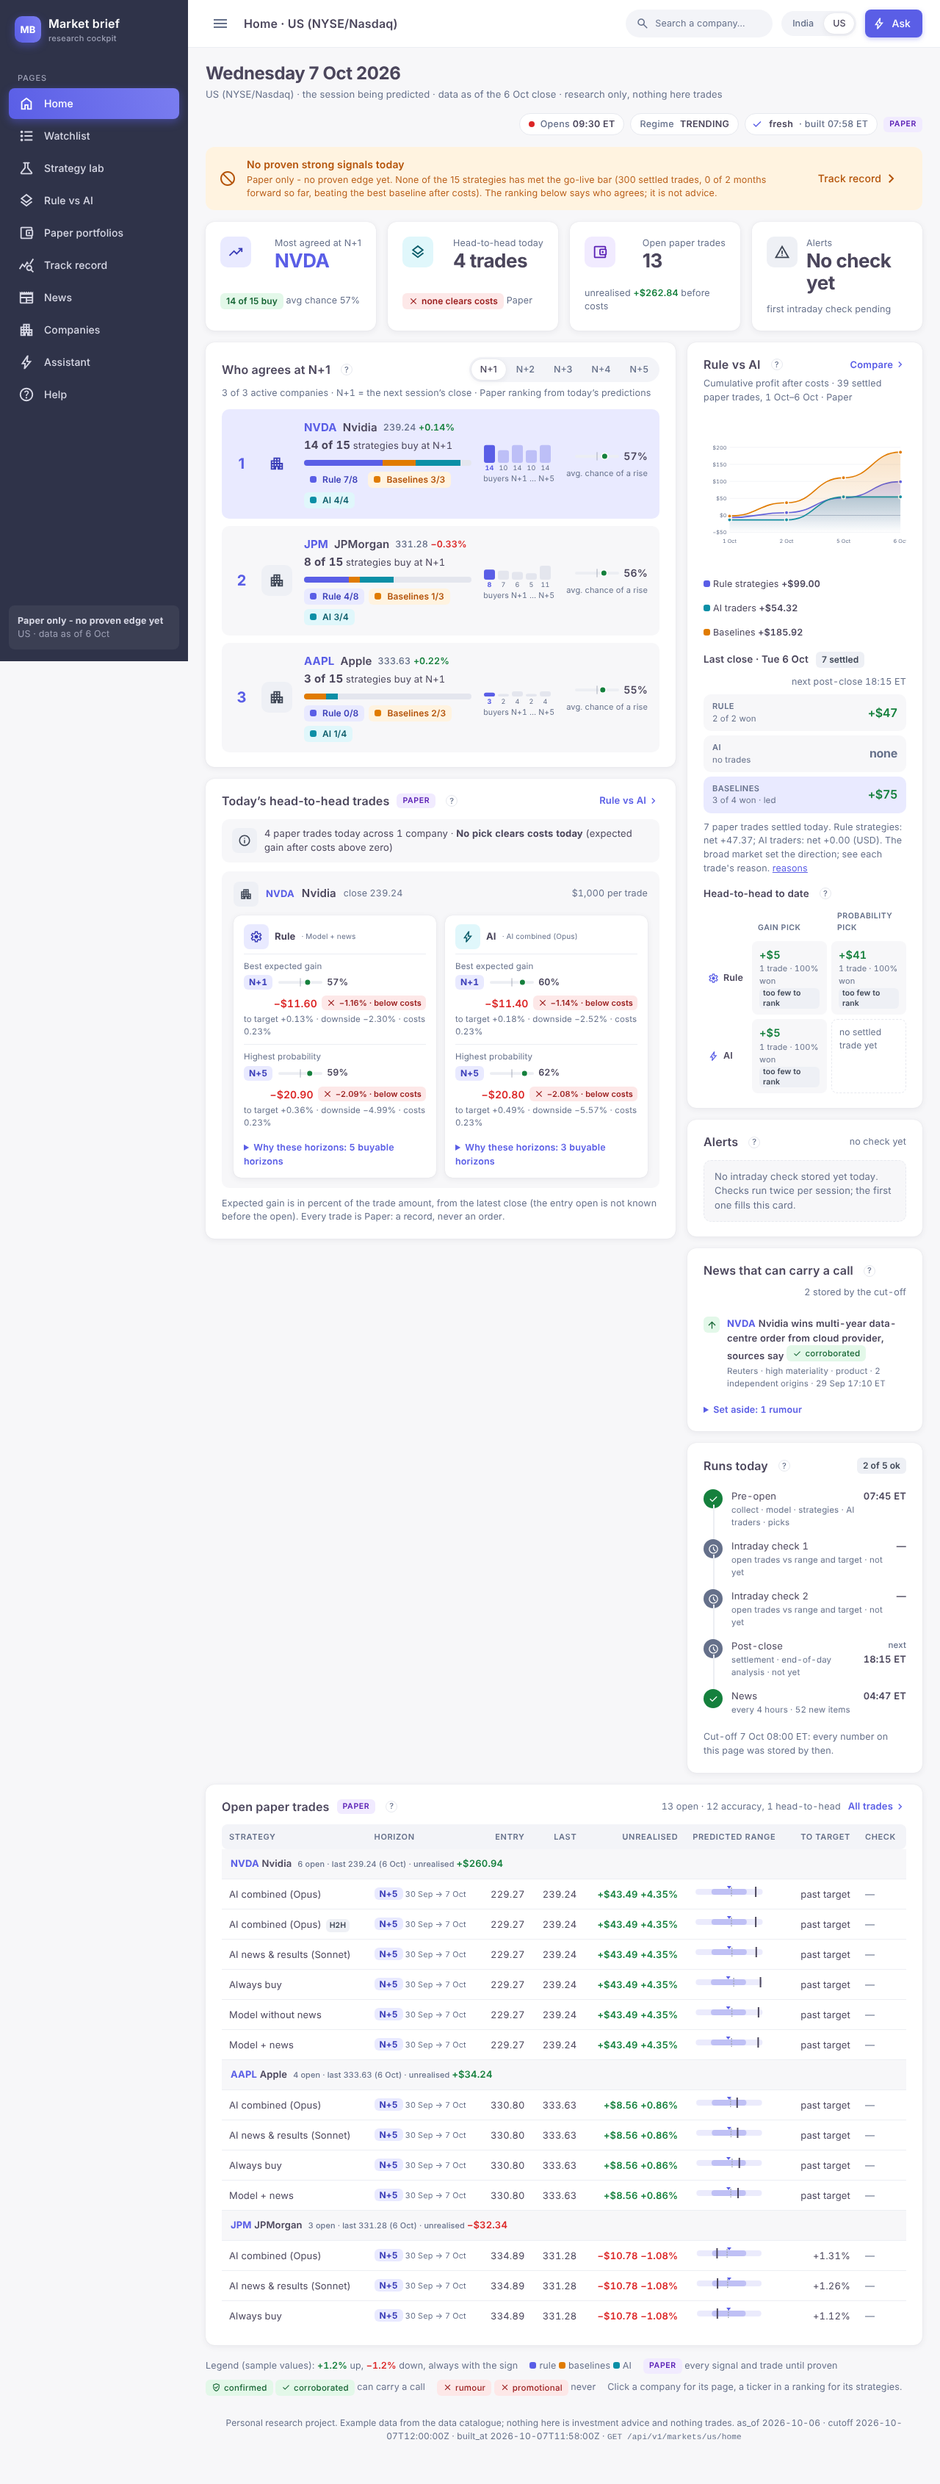
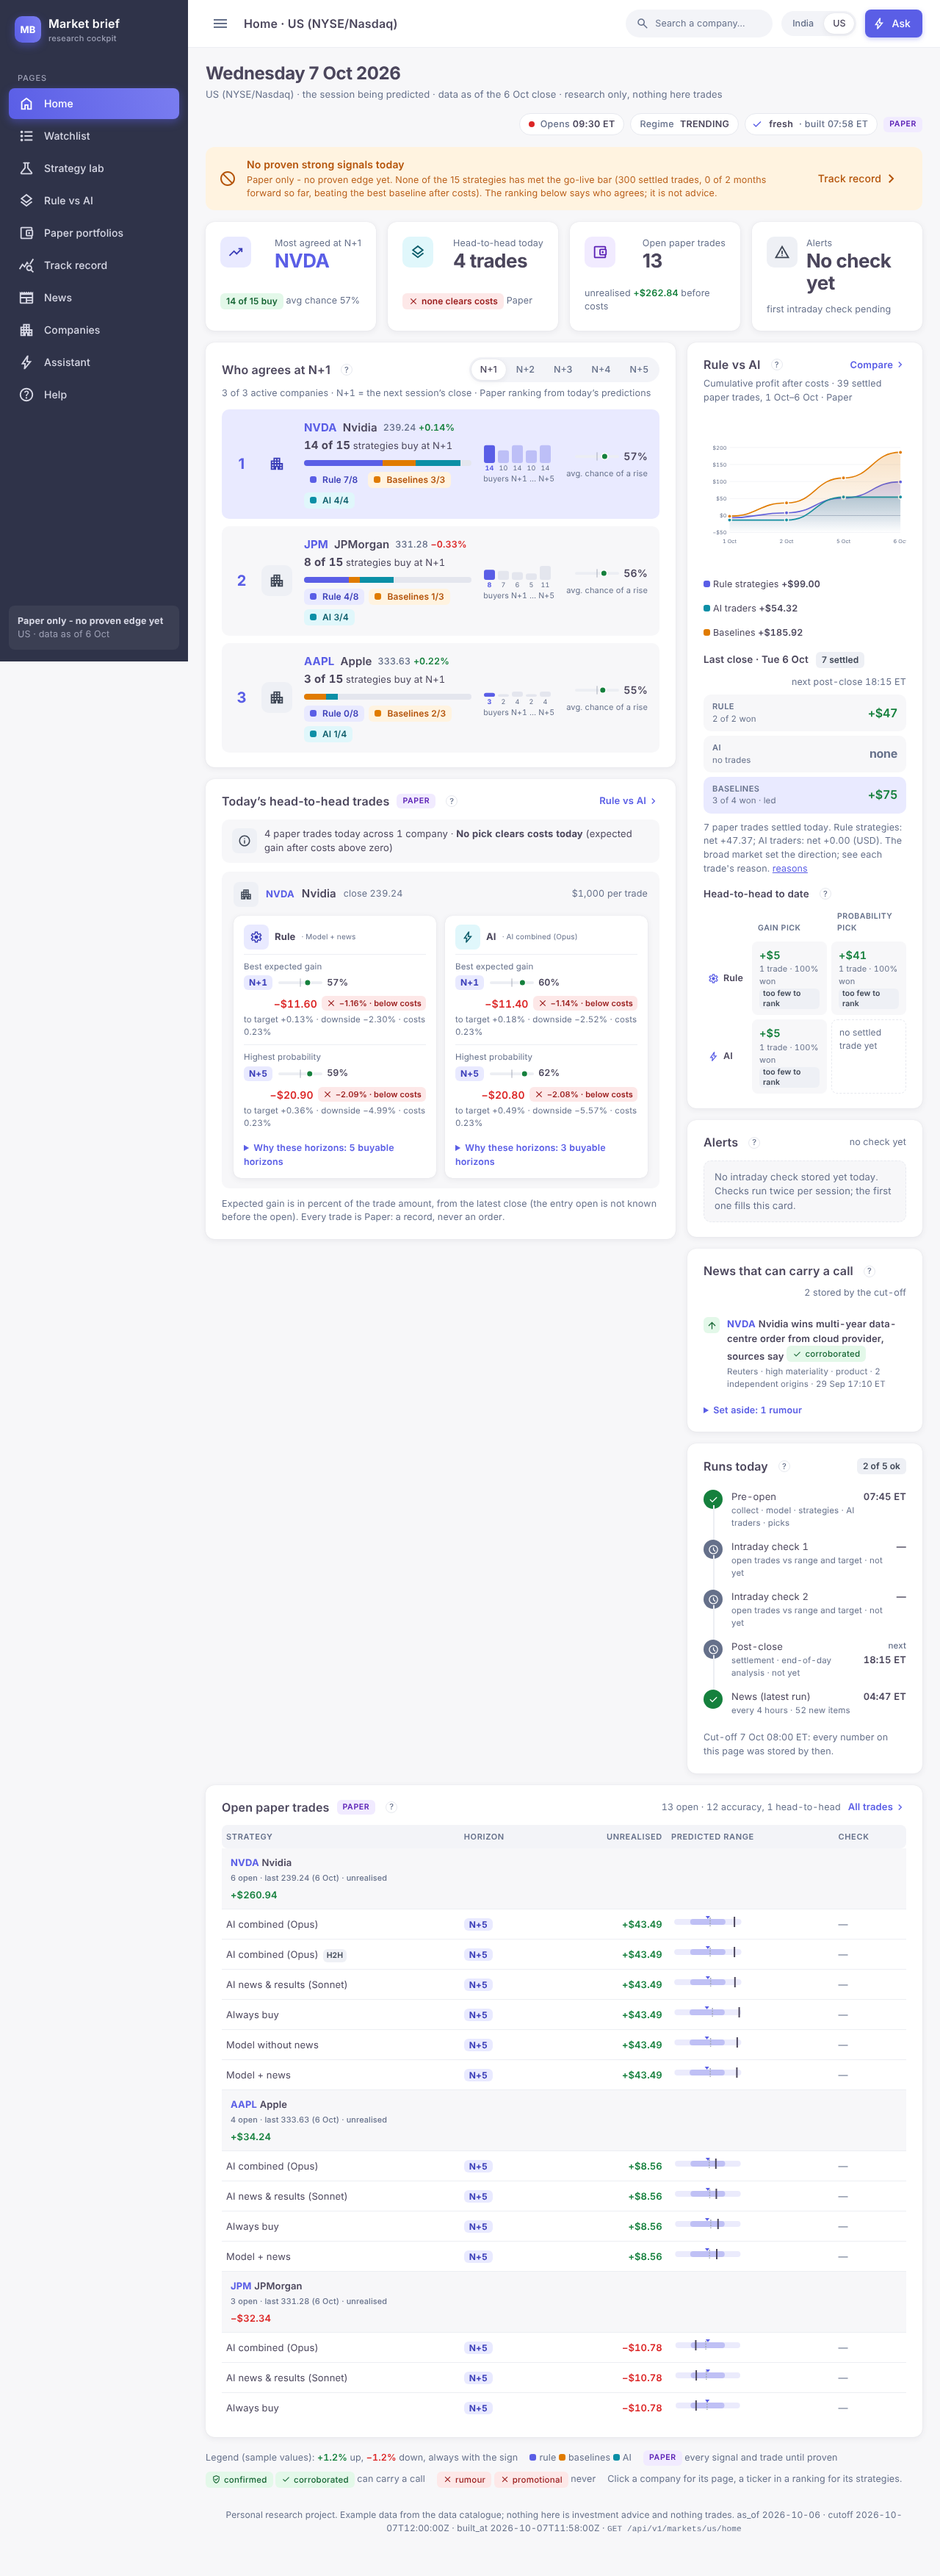
Design track: Home, judge round 2 blocker fixed (table columns from 1360 px)
The wide columns of the trades table return at 1360 px, clear of the
1200 px sidebar breakpoint; the table fits its wrapper at every width
from 390 to 1700 px (swept in 10 px steps, both markets). check_text.js
scans twelve widths including both sides of each breakpoint; notes list
the headline-history subfields; the runs card says it counts the latest
news run.

Claude-Session: https://claude.ai/code/session_01RuLrYPoHyYoZ2LBEo834w9

diff --git a/design/mockups/01-home/page.html b/design/mockups/01-home/page.html
@@ -614,7 +614,7 @@ body{font-size:14px;line-height:1.5;font-variant-numeric:tabular-nums}
 .nl .hd .md-badge{margin-left:4px;vertical-align:1px}
 .aside{font-size:12.5px;margin:8px 0 0} .aside summary{cursor:pointer;color:var(--md-sys-color-primary);font-weight:600;font-size:12.5px}
 
-/* open trades: every column from 1200 px; Entry, Last, To target and the dates only there (.cw); the range bar from 761 px (.cm) */
+/* open trades: every column from 1360 px; Entry, Last, To target and the dates only there (.cw); the range bar from 761 px (.cm) */
 .ot{font-size:13px} .ot th{padding:9px 10px} .ot td{padding:8px 10px}
 .ot td.num,.ot th.num{text-align:right;white-space:nowrap}
 .ot tr.grp td{background:var(--md-sys-color-surface-container-low);font-weight:600;padding:8px 12px;font-size:13px}
@@ -624,7 +624,7 @@ body{font-size:14px;line-height:1.5;font-variant-numeric:tabular-nums}
 .ot .st{display:inline-flex;align-items:center;gap:4px;white-space:nowrap} .ot .st .ms{width:14px;height:14px}
 .ot .st.flag{color:var(--mb-color-on-warn-container);font-weight:600} .ot .st.ok{color:var(--mb-color-up)}
 .rng{display:inline-flex;align-items:center;gap:8px} .rng svg{width:100px;height:18px;display:block} .rng small{color:var(--md-sys-color-on-surface-variant);font-size:11px;white-space:nowrap}
-@media (max-width:1199px){ .ot th.cw,.ot td.cw,.ot .cw{display:none} .ot th{padding:8px 6px} .ot td{padding:8px 6px} .ot .st{white-space:normal;align-items:start} .ot tr.grp td small{display:block;margin-left:0} }
+@media (max-width:1359px){ .ot th.cw,.ot td.cw,.ot .cw{display:none} .ot th{padding:8px 6px} .ot td{padding:8px 6px} .ot .st{white-space:normal;align-items:start} .ot tr.grp td small{display:block;margin-left:0} }
 @media (max-width:760px){ .ot th.cm,.ot td.cm{display:none} .ot td.num{white-space:normal} }
 
 /* alerts */
@@ -1065,14 +1065,14 @@ function runs(m) {
   const p = P(m), r = p.status.runs, news = r.news;
   const done = [r.pre_open, ...r.intraday, r.post_close, r.news].filter(x => x.ok).length, total = 1 + INTRADAY_CHECKS_PER_SESSION + 1 + 1;
   const card = el('section', {class:'card', 'aria-label':'Last runs'});
-  card.append(el('div', {class:'head'}, el('h2', {}, 'Runs today'), help('The routines of this market: pre-open (collect, model, strategies, AI traders, picks), two intraday checks, post-close (settlement, end-of-day analysis) and the news run every four hours. A tick means the run finished and its gates passed.'), el('div', {class:'end'}, el('span', {class:'mb-label ' + (done === total ? 'success' : 'neutral')}, `${done} of ${total} ok`))));
+  card.append(el('div', {class:'head'}, el('h2', {}, 'Runs today'), help('The routines of this market: pre-open (collect, model, strategies, AI traders, picks), two intraday checks, post-close (settlement, end-of-day analysis) and the news run every four hours (the latest one counts here). A tick means the run finished and its gates passed.'), el('div', {class:'end'}, el('span', {class:'mb-label ' + (done === total ? 'success' : 'neutral')}, `${done} of ${total} ok`))));
   const ul = el('ul', {class:'runs'});
   const mark = ok => el('span', {class:'mb-mark ' + (ok == null ? 'na' : ok ? 'ok' : 'no'), 'aria-label': ok == null ? 'not run yet' : ok ? 'ok' : 'failed'}, icon(ok == null ? 'ms-schedule' : ok ? 'ms-check' : 'ms-close'));
   const item = (ok, what, sub, when) => el('li', {}, mark(ok), el('span', {}, what, el('small', {}, sub)), el('span', {class:'t'}, when));
   ul.append(item(r.pre_open.ok, 'Pre-open', 'collect · model · strategies · AI traders · picks', fmtLocal(r.pre_open.at, m)));
   for (let i = 0; i < INTRADAY_CHECKS_PER_SESSION; i++) { const x = r.intraday[i]; ul.append(x ? item(x.ok, `Intraday check ${i + 1}`, 'open trades vs range and target', fmtLocal(x.at, m)) : item(null, `Intraday check ${i + 1}`, 'open trades vs range and target · not yet', '—')); }
   ul.append(item(r.post_close.ok, 'Post-close', r.post_close.at ? 'settlement · end-of-day analysis' : 'settlement · end-of-day analysis · not yet', r.post_close.at ? fmtLocal(r.post_close.at, m) : el('span', {}, el('small', {}, 'next '), fmtLocal(r.post_close.next_at, m))));
-  ul.append(item(news.ok, 'News', `every 4 hours · ${news.new_items} new items`, fmtLocal(news.at, m)));
+  ul.append(item(news.ok, 'News (latest run)', `every 4 hours · ${news.new_items} new items`, fmtLocal(news.at, m)));
   card.append(ul);
   card.append(el('p', {class:'note'}, `Cut-off ${fmtLocal(p.cutoff, m, true)}: every number on this page was stored by then.`));
   return card;

diff --git a/design/mockups/01-home/template.html b/design/mockups/01-home/template.html
@@ -117,7 +117,7 @@ body{font-size:14px;line-height:1.5;font-variant-numeric:tabular-nums}
 .nl .hd .md-badge{margin-left:4px;vertical-align:1px}
 .aside{font-size:12.5px;margin:8px 0 0} .aside summary{cursor:pointer;color:var(--md-sys-color-primary);font-weight:600;font-size:12.5px}
 
-/* open trades: every column from 1200 px; Entry, Last, To target and the dates only there (.cw); the range bar from 761 px (.cm) */
+/* open trades: every column from 1360 px; Entry, Last, To target and the dates only there (.cw); the range bar from 761 px (.cm) */
 .ot{font-size:13px} .ot th{padding:9px 10px} .ot td{padding:8px 10px}
 .ot td.num,.ot th.num{text-align:right;white-space:nowrap}
 .ot tr.grp td{background:var(--md-sys-color-surface-container-low);font-weight:600;padding:8px 12px;font-size:13px}
@@ -127,7 +127,7 @@ body{font-size:14px;line-height:1.5;font-variant-numeric:tabular-nums}
 .ot .st{display:inline-flex;align-items:center;gap:4px;white-space:nowrap} .ot .st .ms{width:14px;height:14px}
 .ot .st.flag{color:var(--mb-color-on-warn-container);font-weight:600} .ot .st.ok{color:var(--mb-color-up)}
 .rng{display:inline-flex;align-items:center;gap:8px} .rng svg{width:100px;height:18px;display:block} .rng small{color:var(--md-sys-color-on-surface-variant);font-size:11px;white-space:nowrap}
-@media (max-width:1199px){ .ot th.cw,.ot td.cw,.ot .cw{display:none} .ot th{padding:8px 6px} .ot td{padding:8px 6px} .ot .st{white-space:normal;align-items:start} .ot tr.grp td small{display:block;margin-left:0} }
+@media (max-width:1359px){ .ot th.cw,.ot td.cw,.ot .cw{display:none} .ot th{padding:8px 6px} .ot td{padding:8px 6px} .ot .st{white-space:normal;align-items:start} .ot tr.grp td small{display:block;margin-left:0} }
 @media (max-width:760px){ .ot th.cm,.ot td.cm{display:none} .ot td.num{white-space:normal} }
 
 /* alerts */
@@ -523,14 +523,14 @@ function runs(m) {
   const p = P(m), r = p.status.runs, news = r.news;
   const done = [r.pre_open, ...r.intraday, r.post_close, r.news].filter(x => x.ok).length, total = 1 + INTRADAY_CHECKS_PER_SESSION + 1 + 1;
   const card = el('section', {class:'card', 'aria-label':'Last runs'});
-  card.append(el('div', {class:'head'}, el('h2', {}, 'Runs today'), help('The routines of this market: pre-open (collect, model, strategies, AI traders, picks), two intraday checks, post-close (settlement, end-of-day analysis) and the news run every four hours. A tick means the run finished and its gates passed.'), el('div', {class:'end'}, el('span', {class:'mb-label ' + (done === total ? 'success' : 'neutral')}, `${done} of ${total} ok`))));
+  card.append(el('div', {class:'head'}, el('h2', {}, 'Runs today'), help('The routines of this market: pre-open (collect, model, strategies, AI traders, picks), two intraday checks, post-close (settlement, end-of-day analysis) and the news run every four hours (the latest one counts here). A tick means the run finished and its gates passed.'), el('div', {class:'end'}, el('span', {class:'mb-label ' + (done === total ? 'success' : 'neutral')}, `${done} of ${total} ok`))));
   const ul = el('ul', {class:'runs'});
   const mark = ok => el('span', {class:'mb-mark ' + (ok == null ? 'na' : ok ? 'ok' : 'no'), 'aria-label': ok == null ? 'not run yet' : ok ? 'ok' : 'failed'}, icon(ok == null ? 'ms-schedule' : ok ? 'ms-check' : 'ms-close'));
   const item = (ok, what, sub, when) => el('li', {}, mark(ok), el('span', {}, what, el('small', {}, sub)), el('span', {class:'t'}, when));
   ul.append(item(r.pre_open.ok, 'Pre-open', 'collect · model · strategies · AI traders · picks', fmtLocal(r.pre_open.at, m)));
   for (let i = 0; i < INTRADAY_CHECKS_PER_SESSION; i++) { const x = r.intraday[i]; ul.append(x ? item(x.ok, `Intraday check ${i + 1}`, 'open trades vs range and target', fmtLocal(x.at, m)) : item(null, `Intraday check ${i + 1}`, 'open trades vs range and target · not yet', '—')); }
   ul.append(item(r.post_close.ok, 'Post-close', r.post_close.at ? 'settlement · end-of-day analysis' : 'settlement · end-of-day analysis · not yet', r.post_close.at ? fmtLocal(r.post_close.at, m) : el('span', {}, el('small', {}, 'next '), fmtLocal(r.post_close.next_at, m))));
-  ul.append(item(news.ok, 'News', `every 4 hours · ${news.new_items} new items`, fmtLocal(news.at, m)));
+  ul.append(item(news.ok, 'News (latest run)', `every 4 hours · ${news.new_items} new items`, fmtLocal(news.at, m)));
   card.append(ul);
   card.append(el('p', {class:'note'}, `Cut-off ${fmtLocal(p.cutoff, m, true)}: every number on this page was stored by then.`));
   return card;

diff --git a/design/system/check_text.js b/design/system/check_text.js
@@ -1,4 +1,5 @@
-// Playwright scan of a built page for clipped, overflowing and overlapping text at eight widths (390-1680 px) and both
+// Playwright scan of a built page for clipped, overflowing and overlapping text at twelve widths (390-1680 px, both sides
+// of the shell's and the tables' breakpoints) and both
 // markets (#india, #us): node design/system/check_text.js <page.html>. Inline elements that wrap (a ticker before a
 // multi-line headline) are reported as overlaps by their bounding boxes; read the list, it is not a pass/fail gate.
 // A table cell cut at its scrolling wrapper's edge counts as clipped (the wrapper's scrollbar is not a fix).
@@ -7,7 +8,7 @@ const { chromium } = require('playwright'); const path = require('path');
   const b = await chromium.launch({ executablePath: '/opt/pw-browsers/chromium-1194/chrome-linux/chrome' }).catch(() => chromium.launch());
   const file = 'file://' + path.resolve(process.argv[2] || 'design/mockups/01-home/page.html');
   const out = [];
-  for (const [w, mobile] of [[390, true], [600, false], [768, false], [1024, false], [1199, false], [1280, false], [1440, false], [1680, false]]) {
+  for (const [w, mobile] of [[390, true], [600, false], [768, false], [1024, false], [1199, false], [1200, false], [1240, false], [1280, false], [1359, false], [1360, false], [1440, false], [1680, false]]) {
     for (const m of ['india', 'us']) {
       const ctx = await b.newContext({ viewport: { width: w, height: 900 }, isMobile: mobile, hasTouch: mobile });
       const p = await ctx.newPage(); await p.goto(file + '#' + m); await p.waitForTimeout(300);
@@ -20,7 +21,7 @@ const { chromium } = require('playwright'); const path = require('path');
         // 1. clipped: own text wider than the box when overflow is hidden/clip/auto (scrolling wrappers excluded)
         for (const el of all) {
           const cs = getComputedStyle(el);
-                    if (['hidden','clip'].includes(cs.overflowX) && el.scrollWidth > el.clientWidth + 1 && el.textContent.trim() && cs.textOverflow !== 'ellipsis') res.push(`clipped ${desc(el)} (${el.scrollWidth}>${el.clientWidth})`);
+          if (['hidden','clip'].includes(cs.overflowX) && el.scrollWidth > el.clientWidth + 1 && el.textContent.trim() && cs.textOverflow !== 'ellipsis') res.push(`clipped ${desc(el)} (${el.scrollWidth}>${el.clientWidth})`);
           if (cs.textOverflow === 'ellipsis' && el.scrollWidth > el.clientWidth + 1 && !el.classList.contains('mb-topbar-title')) res.push(`ellipsis ${desc(el)}`);
         }
         // 2. text leaf past its nearest clipping ancestor or past a sized parent (visible overflow)

diff --git a/design/mockups/01-home/notes.md b/design/mockups/01-home/notes.md
@@ -15,7 +15,7 @@ Top level: `as_of`, `cutoff`, `built_at`, `endpoint`, `read_model`, `sources`, `
 | `to_date` | Scoreboard row | `scope`, `market`, `view`, `family`, `pick_rule`, `horizon_days`, `trades`, `net_pnl`, `currency`, `mean_return_pct`, `win_rate`, `sample_badge`, `basis`, `as_of` | rows with `scope` = `pick_rule`, `horizon_days` = `all` (head-to-head view) |
 | `go_live` | Scoreboard row | `go_live.{proven, months_forward, trades_needed, beats_best_baseline}` | of the reference strategy's accuracy row, all horizons |
 | `strategies` | Strategy | `id`, `family`, `name`, `threshold`, `horizons`, `live`, `settled_trades` | all 15, keyed by id (names for picks, open trades and alerts) |
-| `news` | News item | `id`, `market`, `tickers`, `primary_tickers`, `title`, `source`, `source_domain`, `url`, `published_at`, `first_seen_at`, `enrichment.{event_type, materiality, sentiment, relevance, novelty, urgency, priced_in, analyzed_at}`, `status`, `status_as_of`, `cluster_id`, `independent_origins`, `primary_ids`, `headline_history[]`, `headline_history_status` | the market's items with `first_seen_at` at or before `cutoff`, newest first |
+| `news` | News item | `id`, `market`, `tickers`, `primary_tickers`, `title`, `source`, `source_domain`, `url`, `published_at`, `first_seen_at`, `enrichment.{event_type, materiality, sentiment, relevance, novelty, urgency, priced_in, analyzed_at}`, `status`, `status_as_of`, `cluster_id`, `independent_origins`, `primary_ids`, `headline_history[].{seen_at, title}`, `headline_history_status` | the market's items with `first_seen_at` at or before `cutoff`, newest first |
 | `settled_trades` | Paper trade (settled) | `trade_id`, `view`, `pick_rule`, `strategy_id`, `family`, `ticker`, `horizon_days`, `entry_date`, `exit_date`, `exit_date_actual`, `status`, `amount`, `currency`, `net_pnl`, `return_pct`, `reason_code`, `settled_at` | the market's settled trades with `settled_at` at or before `cutoff` (the cumulative profit chart; `rm.trades` keeps the last sessions' settled trades) |
 | `horizons`, `default_horizon` | (setting) | `config/strategies.yaml` horizons 1-5; N+1 opens (decision 39) | |
 

diff --git a/design/mockups/01-home/rationale.md b/design/mockups/01-home/rationale.md
@@ -80,7 +80,7 @@ and the range bar. Text tones stay AA on white (figures in tokens.css).
     unrealised in money and percent, a **range bar** (the trade's own 50% and 80% bands, the entry dotted, the
     target as a triangle, the last price as the dark line; the numbers in the tooltip), distance to target ("past
     target" once reached), and **today's check** from the latest intraday trade check stored by the cut-off (band
-    position, flags; tooltip with the check's numbers). Below 1200 px the entry, last and to-target columns and the
+    position, flags; tooltip with the check's numbers). Below 1360 px the entry, last and to-target columns and the
     dates go (the tooltips keep them); below 761 px the range bar goes too: strategy, horizon, unrealised, check.
 13. **Legend** (signs, tags, badges) and the **footer**: research-only line, `as_of`, `cutoff`, `built_at` and the
     endpoint.
@@ -118,8 +118,10 @@ errors, no horizontal overflow, no external requests, at 1280 and 390 px. Rebuil
 
 - Keyboard: every element with a tooltip is focusable (links and buttons natively, the rest with `tabindex=0`), so
   the range bars' and checks' figures can be reached without a mouse; Escape closes a tooltip and the drawer.
-- Text fit: `design/system/check_text.js` scans for clipped, overflowing and overlapping text at 390-1680 px for both
-  markets; the only reports left are bounding-box artefacts of an inline ticker before a wrapped headline.
+- Text fit: `design/system/check_text.js` scans for clipped, overflowing and overlapping text at twelve widths from
+  390 to 1680 px (both sides of the shell's and the table's breakpoints) for both markets; at those widths the only
+  reports left are bounding-box artefacts of an inline ticker before a wrapped headline, and the trades table is
+  never wider than its wrapper.
 - Catalogue data note for W1 (cosmetic): India's market status lists two intraday runs (05:43Z and 08:43Z ok) but
   trade_check.json holds rows for 05:43Z only, so the runs timeline shows check 2 done while the alerts card's
   latest check is 11:13 IST.
